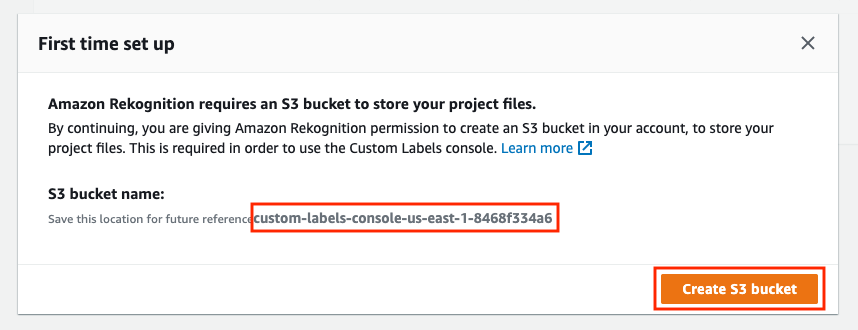
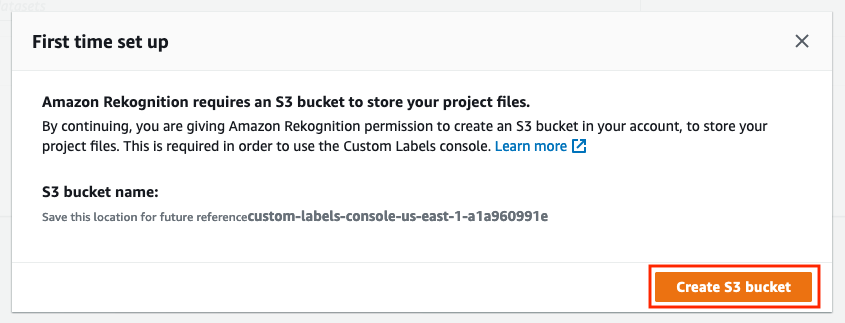
Added instruction for fetching dataset

Changed region(s): [[0.0, 0.2167, 0.9846, 0.9907], [0.0308, 0.0929, 0.2154, 0.1548], [0.9231, 0.0929, 0.9538, 0.1548]]

diff --git a/content/Train ML Model/2_set_up_dataset.md b/content/Train ML Model/2_set_up_dataset.md
@@ -1,0 +1,42 @@
++++
+title = "Set up images dataset"
+weight = 520
+chapter = true
+pre = "2. "
++++
+
+# Set up images dataset
+
+1. Execute the **fetch_data.sh** script, which grabs the images dataset to the S3 bucket you created in the previous step.
+
+```
+source ~/environment/aws_ws/src/robomaker_workshop/fetch_data.sh
+```
+
+<!-- 1. Fetch images of the real-world setup which is already prepared for you. Make sure to substitue your team name in the appropriate spot.
+
+```
+aws s3 cp s3://adsnghw-robotics/px100-dataset/real_coins.zip /tmp/px100-dataset.zip --profile robomaker_workshop
+
+unzip -q /tmp/px100-dataset.zip -d /tmp/px100-dataset
+
+BUCKET=px100-dataset-$(cut -d'-' -f1 <<< $(uuidgen))
+
+aws s3 cp /tmp/px100-dataset s3://$BUCKET/assets/px100-dataset --recursive
+```
+
+2. Decompress the archive and upload the data to the S3 bucket set up by Rekognition.
+
+```
+unzip -q /tmp/px100-dataset.zip -d /tmp/px100-dataset/
+
+aws s3 cp /tmp/px100-dataset s3://<REKOGNITION_S3_BUCKET>/assets/px100-dataset --recursive
+```
+
+3. Confirm that your dataset has been correctly received by S3.
+
+```
+aws s3 ls s3://<REKOGNITION_S3_BUCKET>/assets/px100-dataset/ | wc -l
+```
+
+The terminal should print out `50`, implying that all fifty images of the dataset are now in the appropriate S3 location. -->

diff --git a/content/Train ML Model/1_initialize_rekognition.md b/content/Train ML Model/1_initialize_rekognition.md
@@ -1,8 +1,15 @@
 +++
-title = "Set up Rekognition"
+title = "Initialize Rekognition"
 weight = 510
-chapter = false
+chapter = true
+pre = "1. "
 +++
+
+# Initialize Rekognition
+
+The following steps need to be carried out only once for each team.
+
+---
 
 1. Go to the Amazon Rekognition console and choose **Use Custom Labels** from the left column.
 
@@ -12,10 +19,10 @@ chapter = false
 
 ![Custom Labels Dashboard](/custom-labels-dash.png?classes=border)
 
-3. You will be greeted by a pop-up prompting you to set up a S3 bucket for Amazon Rekognition. Copy the **S3 bucket name** at the bottom and save it to your local machine. Then click on **Create S3 bucket**.
+3. You will be greeted by a pop-up prompting you to set up a S3 bucket for Amazon Rekognition. Click on **Create S3 bucket**.
 
 ![Custom Labels Setup](/custom-labels-setup.png?classes=border)
 
-A green banner at the top of the screen should confirm a successful setup.
+4. A green banner at the top of the screen should confirm a successful setup.
 
 ![Custom Labels Setup Success](/setup-success.png?classes=border)

diff --git a/content/Train ML Model/5_evaluate_results.md b/content/Train ML Model/5_evaluate_results.md
@@ -1,5 +1,6 @@
 +++
 title = "Evaluate training results"
 weight = 550
-chapter = false
+chapter = true
+pre = "5. "
 +++

diff --git a/content/Train ML Model/4_initiate_training.md b/content/Train ML Model/4_initiate_training.md
@@ -1,5 +1,6 @@
 +++
 title = "Initiate model training"
 weight = 540
-chapter = false
+chapter = true
+pre = "4. "
 +++

diff --git a/content/Train ML Model/6_invoke_model.md b/content/Train ML Model/6_invoke_model.md
@@ -1,5 +1,6 @@
 +++
 title = "Invoke trained model"
 weight = 560
-chapter = false
+chapter = true
+pre = "6. "
 +++

diff --git a/content/Train ML Model/3_draw_bboxes.md b/content/Train ML Model/3_draw_bboxes.md
@@ -1,5 +1,6 @@
 +++
 title = "Draw bounding boxes"
 weight = 530
-chapter = false
+chapter = true
+pre = "3. "
 +++
